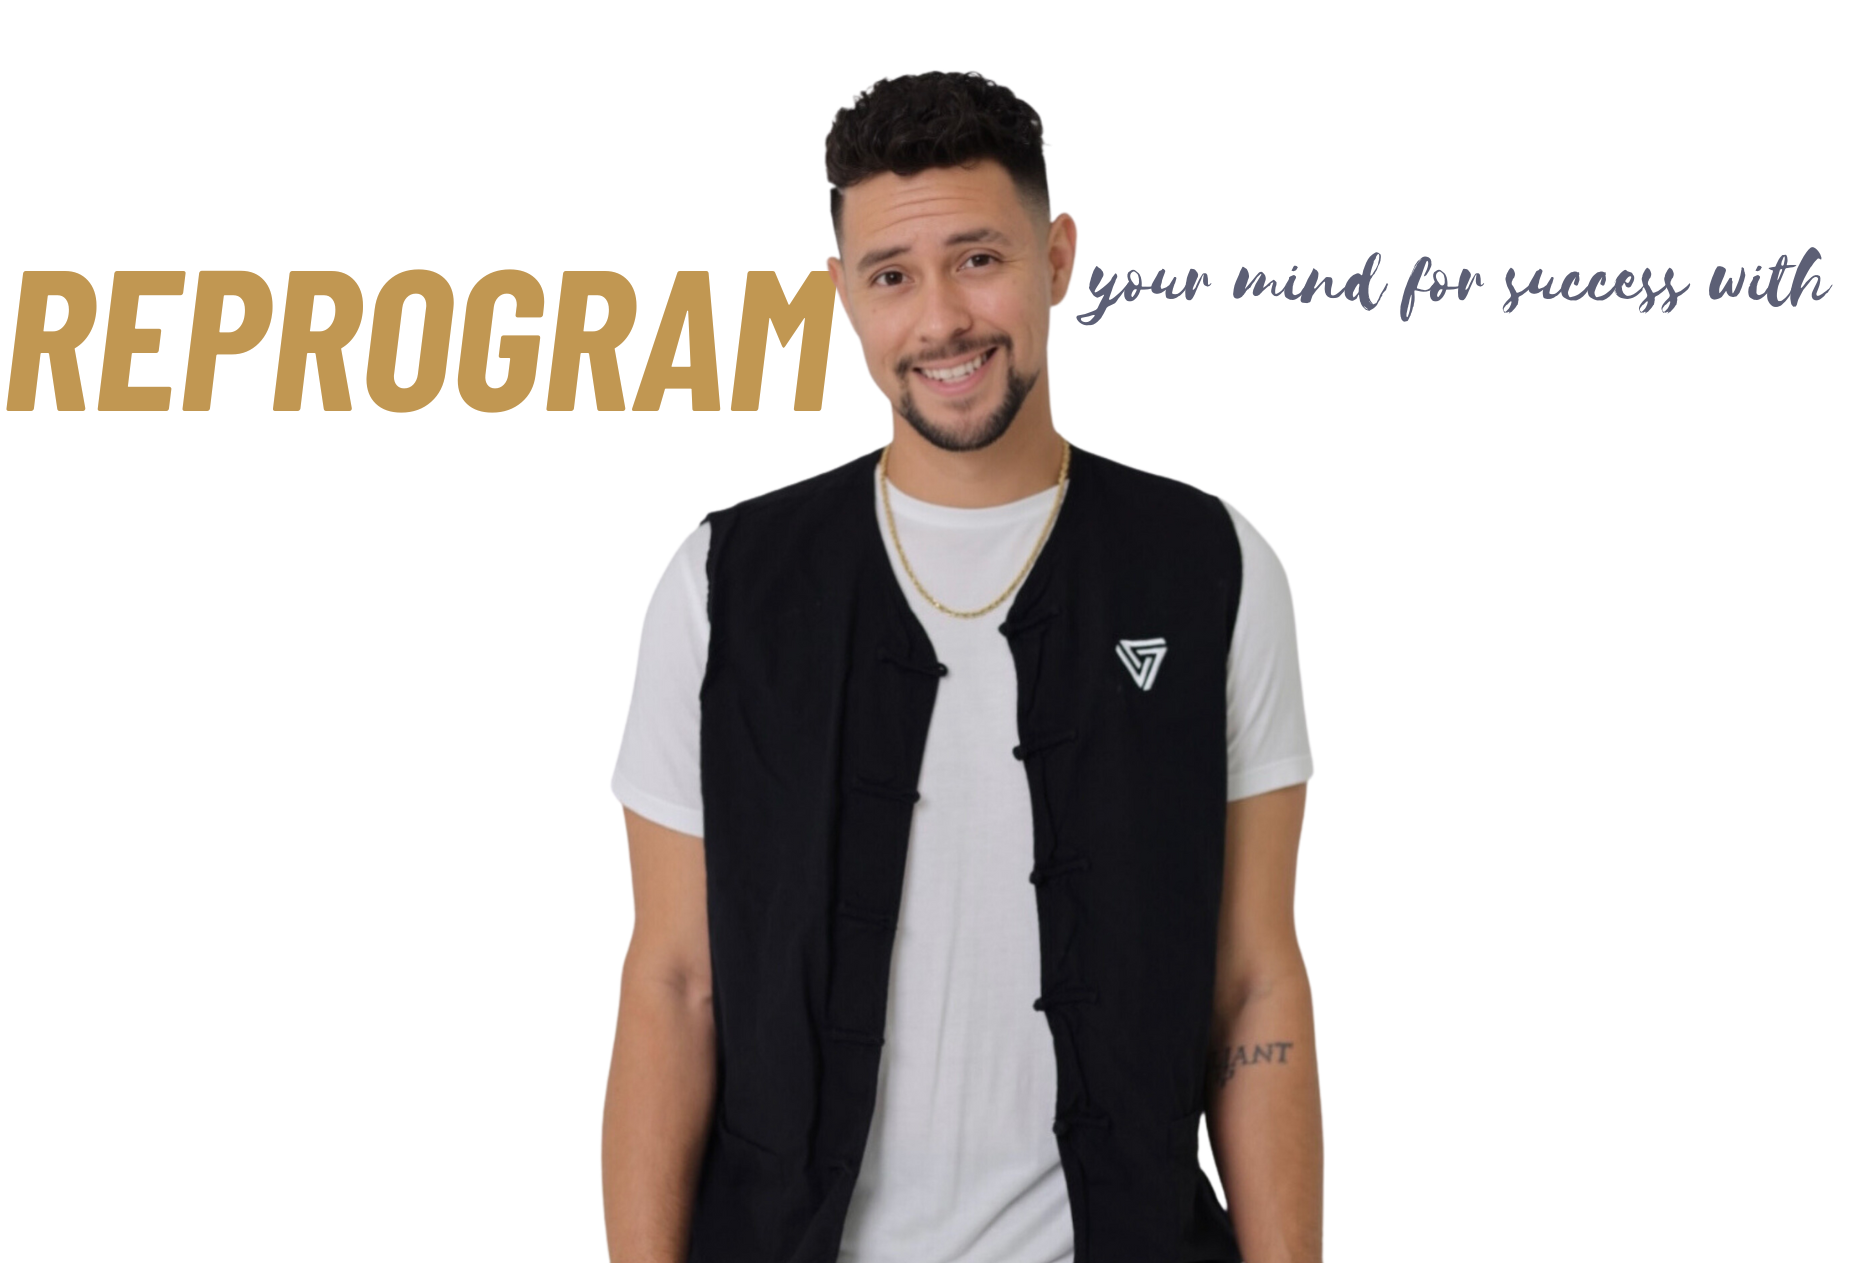
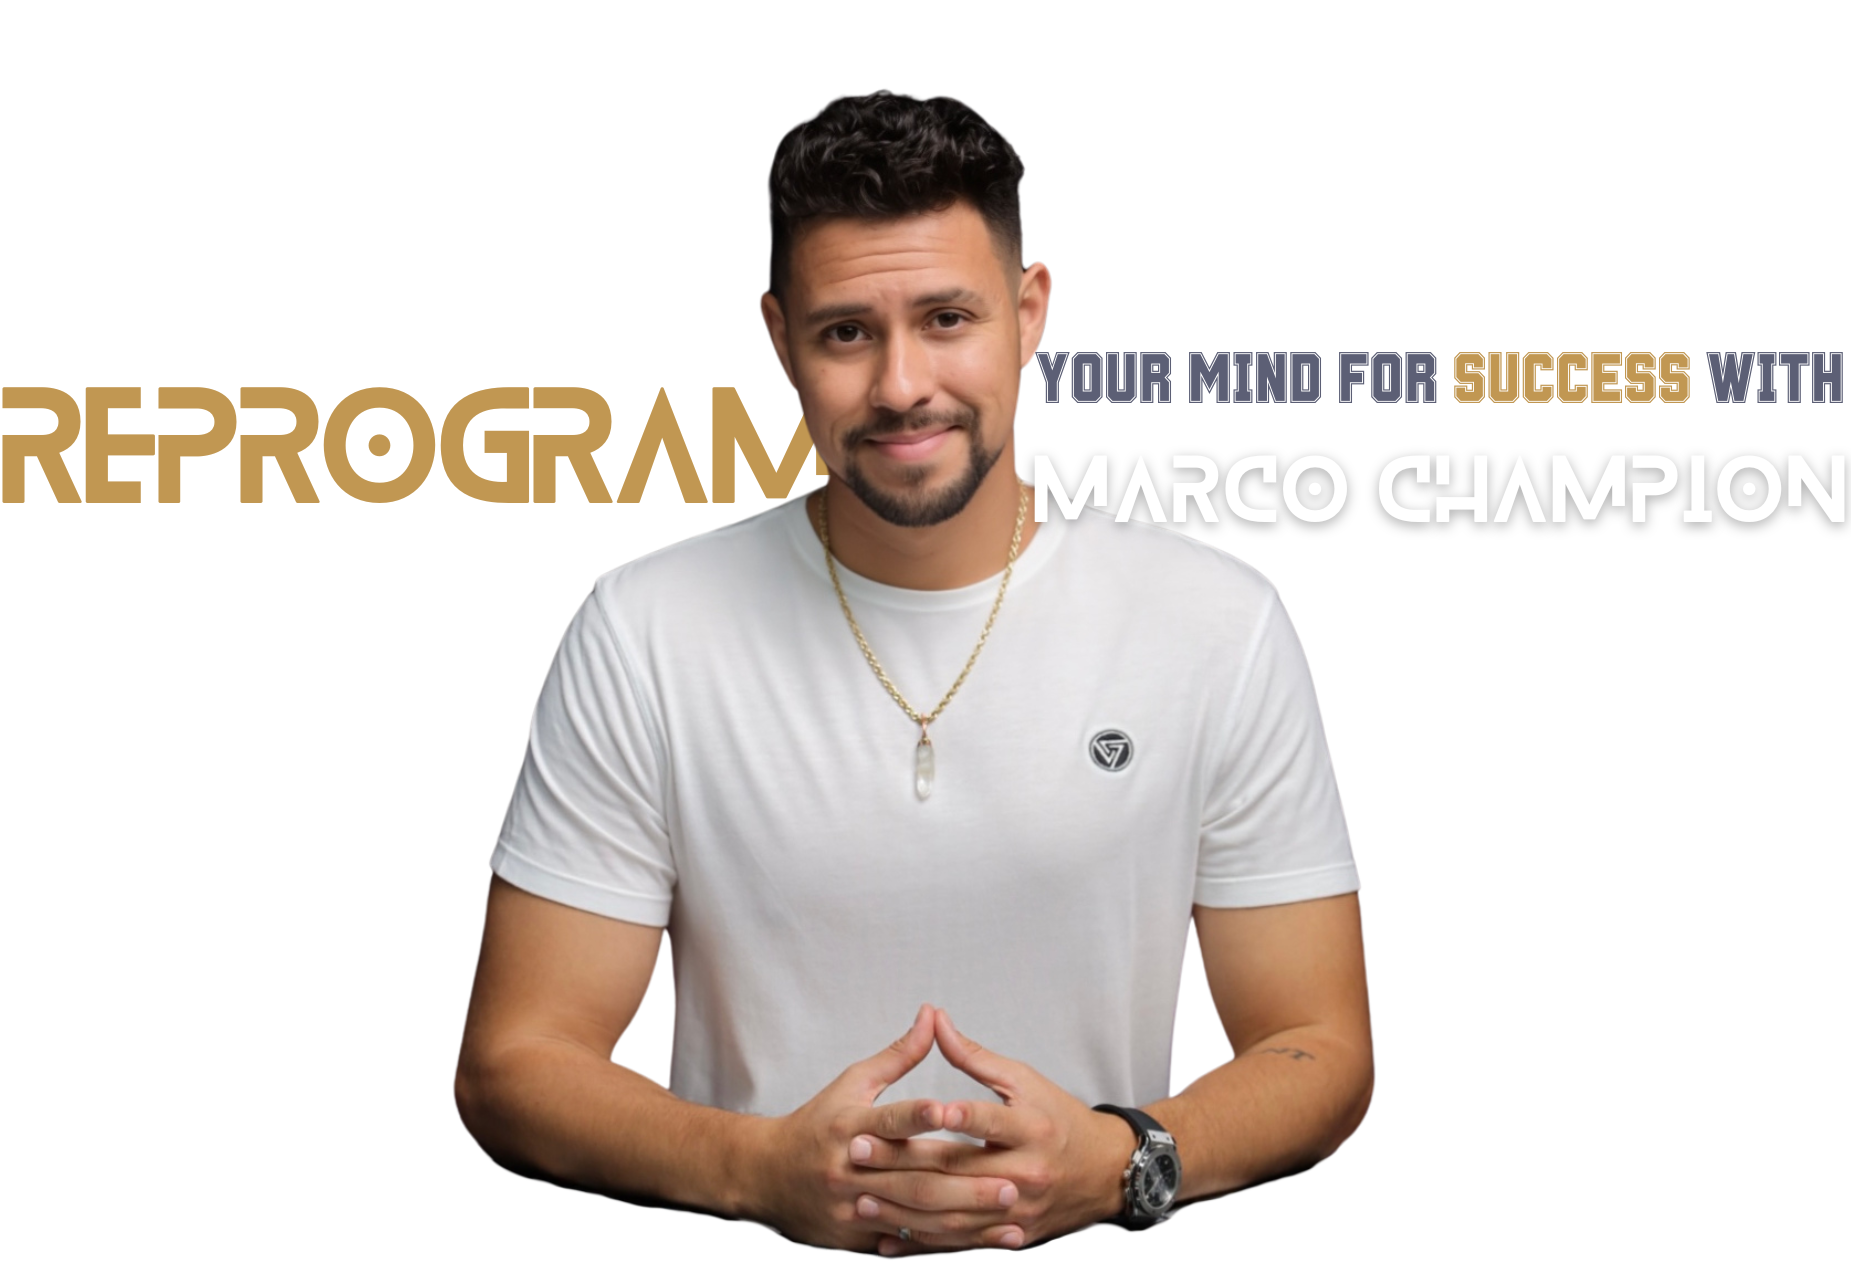
finish

diff --git a/burn/src/app/components/AboutEd.jsx b/burn/src/app/components/AboutEd.jsx
@@ -11,44 +11,45 @@ const AboutEd = ({ isWhiteBG, isHeadingColor }) => {
               isHeadingColor ? styles2.aboutHead : ""
             }`}
           >
-            {isWhiteBG ? "Who Is Edward Burns" : "Who Is Edward Burns "}
+            {isWhiteBG ? "WHO IS MARCO CHAMPION?" : "WHO IS MARCO CHAMPION?"}
           </h1>
           <p className={isWhiteBG ? styles2.aboutHead : ""}>
-            After an honorable career as a Marine, I found my calling in the
-            world of entrepreneurship. My journey has been one of resilience and
-            triumph, marked by overcoming personal struggles, serving two tours
-            in Iraq, and facing homelessness after military retirement. From
-            battling adversity with only $34.41 to my name, I rose to build a
-            successful cleaning service company, Valor Janitorial.
+            Growing up, I fell in love with skateboarding and all the adversity
+            that came with it. At 15 Yrs old I had a near death experience being
+            ran over by a car and told by the doctors I would never walk again.
+            I shattered my pelvis, broke my spine, and damaged nerves. They
+            called it a miracle when my nerves repaired themselves and I learned
+            how to walk and even skate again.
             <br /> <br />
-            My work ethic and perseverance propelled this business to
-            unprecedented heights, eventually leading to its acquisition by a
-            private equity firm. In doing so, I became the first
-            multi-millionaire in my family. But my journey didn&apos;t stop there.
-            Driven by a passion for excellence and a desire to uplift others, I
-            pursued a Ph.D. in Business Administration and Management from
-            Harvard, setting the stage for my current role as a financial
-            services professional and national advanced market specialist.
+            This experience drove me to understand the power of the mind and
+            tools to use to hack our inner programming. The amazing thing is
+            that it’s possible for anyone to rewire their brain to produce
+            massive levels of success. Through over 10,000 hours of meditation
+            Ive came to a major realization that there&apos;s abundance all around
+            us, we just have to get out of our way and tap into correct flow of
+            energy.
             <br />
             <br />
-            At Valor Financial Group, I am dedicated to helping individuals,
-            business owners, and financial entrepreneurs shape a brighter future
-            and cultivate robust portfolios. My commitment extends beyond
-            transactions; I aim to empower consumers with greater financial
-            literacy, ensuring they have the resources to protect their families
-            and build a secure future.
+            My purpose has been to help others experience their best version the
+            way I constantly experience mine. Thats when I embarked on building
+            MOTIV a brand that inspires others to STAY MOTIVATED and find their
+            most powerful reasons. I also scaled a 7 figure social media agency
+            and launched a content creation app.
             <br />
             <br />
-            Connecting business owners with the right financial and insurance
-            products is not just a job; it&apos;s a mission to enhance their coverage
-            and add value to employee benefits packages. Additionally, I guide
-            financial services entrepreneurs in building thriving businesses,
-            offering access to industry-leading investment and insurance
-            products
+            Theres no stopping my commitment to innovation and in the process
+            ive helped and mentored many others to do the same. Discovering the
+            best version of YOU is the ultimate goal. That&apos;s why Ive developed
+            the REPROGRAM course; a character building routine that reprograms
+            your entire life to experience more success in just 77 days.
           </p>
 
+          <br />
+          <br />
+
+          <p>To Your Success, <br /> Marco Champion</p>
           <button className={isWhiteBG ? styles2.btn : ""}>
-            Discover Ed&apos;s Personal Story
+            Discover Full Story
           </button>
 
           <div className={`${styles.Social}`}>

diff --git a/burn/src/app/components/Show.jsx b/burn/src/app/components/Show.jsx
@@ -6,9 +6,9 @@ import styles from "../style/show.module.css";
 
 
 const episodes = [
-  {epNo: 267,guestName: 'Edward Burns', epTitle: '10 LESSONS I LEARNED FROM MY DOGS'},
-  {epNo: 268,guestName: 'Edward Burns', epTitle: '10 LESSONS I LEARNED FROM MY DOGS'},
-  {epNo: 269,guestName: 'Edward Burns', epTitle: '10 LESSONS I LEARNED FROM MY DOGS'}
+  {epNo: 'THE MARCO CHAMPION SHOW',guestName: 'Coming Soon', epTitle: 'David Goggins Mentality'},
+  {epNo: 'THE MARCO CHAMPION SHOW',guestName: 'Coming Soon', epTitle: 'Whats Your Motiv?'},
+  {epNo: 'THE MARCO CHAMPION SHOW',guestName: 'Coming Soon', epTitle: 'The Andrew Tate Interview'}
 ]
 
 const Show = () => {
@@ -22,7 +22,7 @@ const Show = () => {
             <h4 className="colorPrimary">
               Become the Best Version of You with
             </h4>
-            <h1>The Edward Burns show</h1>
+            <h1>The Marco Champion show</h1>
             <h3>
               RANKED <span className="colorPrimary">TOP 5 PODCASTS</span> IN THE
               WORLD
@@ -45,7 +45,7 @@ const Show = () => {
           <div className={styles.epBox}>
           {episodes.map((ep,index)=>(
             <div className={styles.epMainBox} key={index}>
-              <img src="/images/podcast.png" alt="" />
+              <img src="/images/podcasthome1.png" alt="" />
 
               <h2 className={styles.epMainBoxHead}>EP. {ep.epNo}</h2>
               <div className={styles.epMainBoxDetail}>

diff --git a/burn/src/app/style/home.module.css b/burn/src/app/style/home.module.css
@@ -9,11 +9,12 @@
   justify-content: center;
   position: relative;
   width: 100%;
+  padding-bottom: 25px;
+  z-index: 10;
 }
 .hero {
-  background-image: url(/images/herobg.png);
-  position: relative;
-  background-color: #000;
+  background: linear-gradient(rgba(0, 0, 0, 0.6), rgba(0, 0, 0, 0.6)), url(/images/herobg.png);
+  background-size: cover;
 }
 .heroMain img {
   margin: 0 auto;
@@ -68,7 +69,23 @@
   position: absolute;
 
   max-width: 1425px;
-  bottom: -162px;
+  bottom: -112px;
+}
+
+.grow::after {
+  content: "";
+  position: absolute;
+  top: 0;
+  left: 0;
+  width: 100%;
+  height: 100%;
+  background-image: url('../../../public/images/stayconected.png');
+  background-size: 80%;
+  background-repeat: no-repeat;
+  background-position: center;
+  background-position: center 20%;
+  opacity: 0.5; /* Adjust the opacity as needed */
+  z-index: -1; /* Push it behind the .grow element */
 }
 .growSocial {
   display: flex;

diff --git a/burn/src/app/style/header.css b/burn/src/app/style/header.css
@@ -1,6 +1,6 @@
 .header {
   height: fit-content;
-  background-color: #c19752;
+  background-color: #44aef5;
   display: flex;
   align-items: center;
   justify-content: center;
@@ -12,25 +12,27 @@
 .cout {
   font-size: 16px;
   font-weight: 700;
-  color: #001838;
+  color: #fff;
   display: flex;
   align-items: center;
   justify-content: center;
   gap: 1rem;
   text-transform: uppercase;
+  font-family: sans-serif;
 }
 
 .btn {
-  padding: 5px 15px;
-  background-color: #001838;
+  padding: 10px 15px;
+  background-color: #216023;
   border: none;
-  color: #c19752;
+  color: #fff;
   font-weight: 600;
   cursor: pointer;
+  transition: all 0.3s ease-in-out;
 }
 .btn:hover {
   background-color: white;
-  color: #c19752;
+  color: #216023;
 }
 
 @media screen and (max-width: 681px) {

diff --git a/burn/src/app/page.js b/burn/src/app/page.js
@@ -32,7 +32,7 @@ export default function Home() {
             <img src="/images/HomePage2.png" alt="" />
           </div>
 
-          <div className={styles.brandMain}>
+          {/* <div className={styles.brandMain}>
             <div className={styles.brand}>
               <div className={styles.brandImg}>
                 <img
@@ -54,7 +54,7 @@ export default function Home() {
                 </div>
               </div>
             </div>
-          </div>
+          </div> */}
         </div>
         <SocialBox />
       </div>

diff --git a/burn/src/app/style/show.module.css b/burn/src/app/style/show.module.css
@@ -91,7 +91,7 @@
   left: 0;
   right: 0;
   bottom: 0;
-  background: linear-gradient(180deg, rgba(0, 62, 129, 0), #003e81);
+  background: linear-gradient(180deg, rgba(0, 62, 129, 0), #000);
 }
 
 .epMainBox img::before {
@@ -116,7 +116,13 @@
   top: 13px;
   color: #fff;
 
-  left: 10rem;
+  /* left: 10rem; */
+  /* te */
+  text-align: center;
+  font-size: 15px;
+  left: 50%;
+  transform: translateX(-50%);
+  text-wrap: nowrap;
 }
 .epMainBoxDetail {
   position: absolute;

diff --git a/burn/src/app/components/Header.jsx b/burn/src/app/components/Header.jsx
@@ -5,12 +5,9 @@ const Header = () => {
     <div>
       <div className="header" id="header">
         <div className="cout">
-         Join the world&apos;s biggest movement for living a limit free life
-          <button className="header btn">
-          JOIN NOW
-        </button>
+          JOIN THE BIGGEST MOVEMENT TO ESCAPE THE MATRIX
+          <button className="header btn">JOIN NOW</button>
         </div>
-
       </div>
     </div>
   );

diff --git a/burn/src/app/components/SocialBox.jsx b/burn/src/app/components/SocialBox.jsx
@@ -16,11 +16,11 @@ const SocialBox = () => {
   return (
     <div className={styles.growMain}>
       <div className={styles.grow}>
-        <div className={styles.growHead}>
+        {/* <div className={styles.growHead}>
           <h1>
             JOIN THE GROWING <span>NO LIMIT</span> COMMUNITY
           </h1>
-        </div>
+        </div> */}
 
         <div className={styles.growSocial}>
           {socialDetail.map((social, index) => (

diff --git a/burn/src/app/components/Navbar.jsx b/burn/src/app/components/Navbar.jsx
@@ -31,7 +31,7 @@ const Navbar = () => {
           <div className={scrolled ? styles.scrollDiv : styles.navbar}>
             <div className={styles.logo}>
               <Link href="/">
-                <img src="/images/logo.png" alt="" />
+                <img src="/images/logo.svg" alt="" />
               </Link>
             </div>
             <div className={styles.links}>

diff --git a/burn/src/app/style/aboutEd.module.css b/burn/src/app/style/aboutEd.module.css
@@ -4,6 +4,7 @@
     align-items: center;
     justify-content: space-between;
     background: linear-gradient(90deg,#001838,#06254f);
+    background: linear-gradient(rgba(0, 0, 0, 0.6), rgba(0, 0, 0, 0.6)), url(/images/homebio.png);
     overflow: hidden;
     max-width: 100%;
     position: relative;

diff --git a/burn/src/app/style/winner.module.css b/burn/src/app/style/winner.module.css
@@ -1,6 +1,5 @@
 .container {
-  background-color: #001838;
-  background-image: url(/images/mediabg.png);
+  background: linear-gradient(rgba(0, 0, 0, 0.6), rgba(0, 0, 0, 0.6)), url(/images/homebio.png);
   background-position: 50%;
   background-repeat: no-repeat;
   background-size: cover;

diff --git a/burn/src/app/style/navbar.module.css b/burn/src/app/style/navbar.module.css
@@ -60,7 +60,7 @@
   color: white;
 }
 .navbar.scrolled {
-  background-color: #001838 !important;
+  background-color: #000 !important;
   position: fixed;
   min-width: 100%;
   top: 0;
